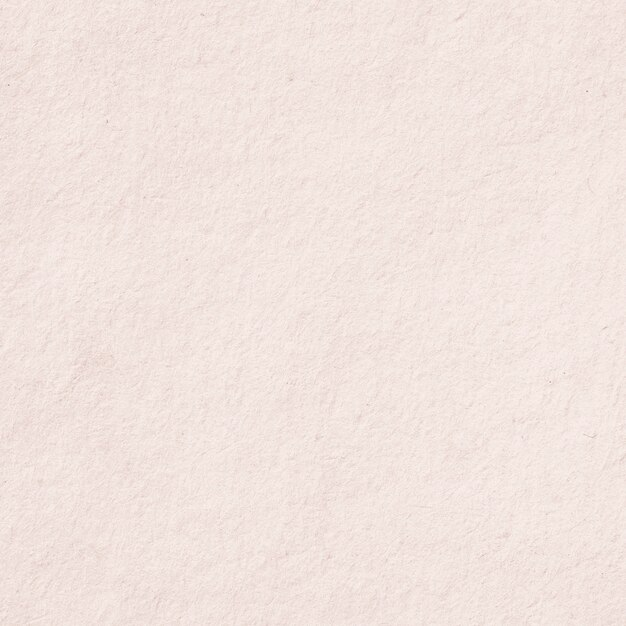
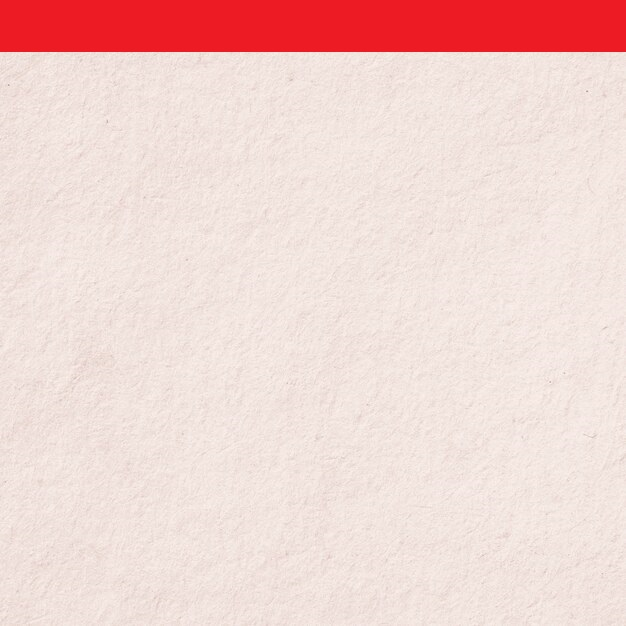
Акционерам
ещкере

Changed region(s): [[0.0, 0.0, 1.0, 0.0911]]

diff --git a/Халвичка/акционерам.html b/Халвичка/акционерам.html
@@ -1,0 +1,31 @@
+<!doctype html>
+<html>
+    <body>
+        <h1>Акционерам</h1>
+        <hr color="red"></hr>
+        <font align="center"><p><b>СООБЩЕНИЕ<br>о проведении годового общего собрания акционеров<br>Акционерного общества «Халвичный завод «Нальчикский»<br>Место нахождения Общества: Российская Федерация, Кабардино-Балкарская Республика, г. Нальчик.<br><br>Уважаемый акционер!</b></p></font>
+        <p>Акционерное общество «Халвичный завод «Нальчикский» (АО «Халвичный завод «Нальчикский»), далее — Общество, доводит до Вашего сведения, что Советом директоров Общества принято решение о проведении годового общего собрания акционеров (далее — Собрание).<br><br>
+            Годовое общее собрание акционеров Общества проводится в форме собрания.
+            Собрание состоится 21 июня 2023 года в 17 часов 00 минут
+            Место проведения Собрания: г. Нальчик, ул.Заводская, д. 6, здание администрации.
+            Время начала регистрации лиц, участвующих в Общем собрании: 16 часов 45 минут
+            Дата определения (фиксации) лиц, имеющих право на участие в внеочередном общем собрании акционеров Общества: 29 мая 2023г.<br></p>
+        <p><b>Повестка дня годового общего собрания акционеров:<br></b></p>
+        <p style="margin-left: 30px;">
+            1.Определение порядка проведения собрания.<br>
+            2.Утверждение годового отчета общества за 2022г.<br>
+            3.Утверждение годовой бухгалтерской (финансовой) отчетности Общества за 2022г.<br>
+            4.О распределении прибыли (в том числе выплате (объявлении) дивидендов) и убытков общества по результатам 2022 года.<br>
+            5.Избрание Совета директоров общества.<br>
+            6.Избрание ревизионной комиссии общества.<br>
+            7.Об изменении фирменного наименования Общества.<br>
+            8.Об утверждении изменений в устав Общества.<br>
+             </p>
+
+        <p>Правом голоса, по вопросам повестки дня годового общего собрания акционеров Общества, обладают владельцы обыкновенных акций Общества.<br><br>
+ 
+С информацией (материалами), подлежащей предоставлению лицам, имеющим право на участие в годовом общем собрании акционеров, можно ознакомиться в течение 20 дней до даты проведения собрания по адресу: КБР, г.Нальчик, ул. Заводская, 6, а также на сайте общества в информационно-телекоммуникационной сети «Интернет» —<a href="https://halvichny.ru/"> https://halvichny.ru.</a></p>
+    <p><b>С уважением,<br>
+        Совет директоров АО «Халвичный завод «Нальчикский»</b></p>
+    </body>
+</html>
